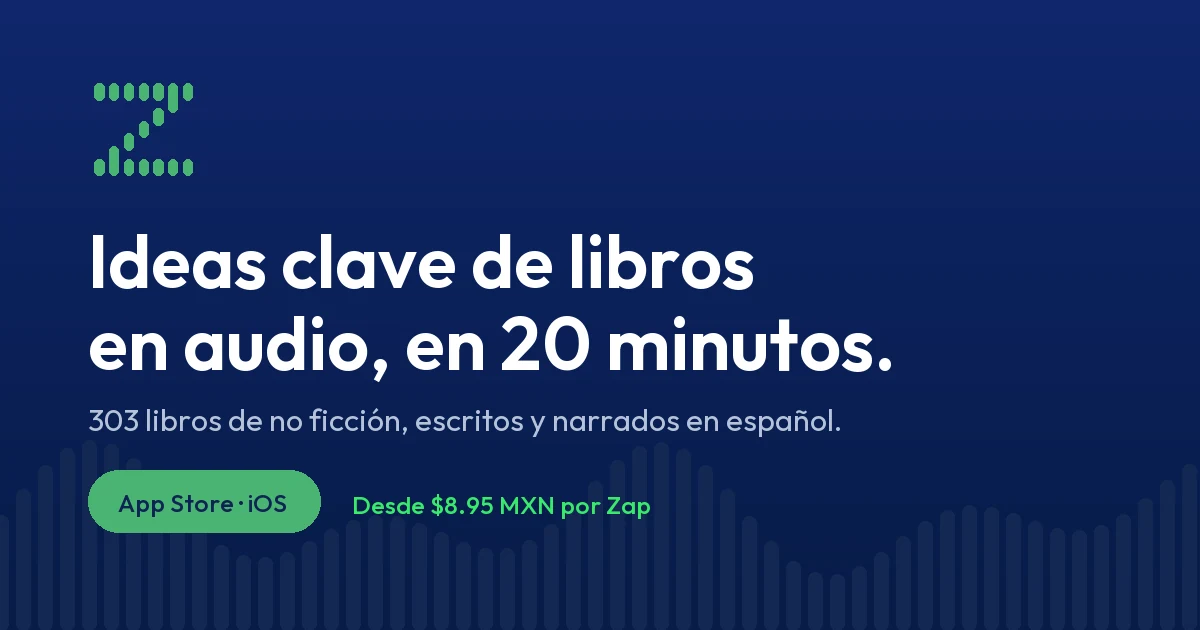
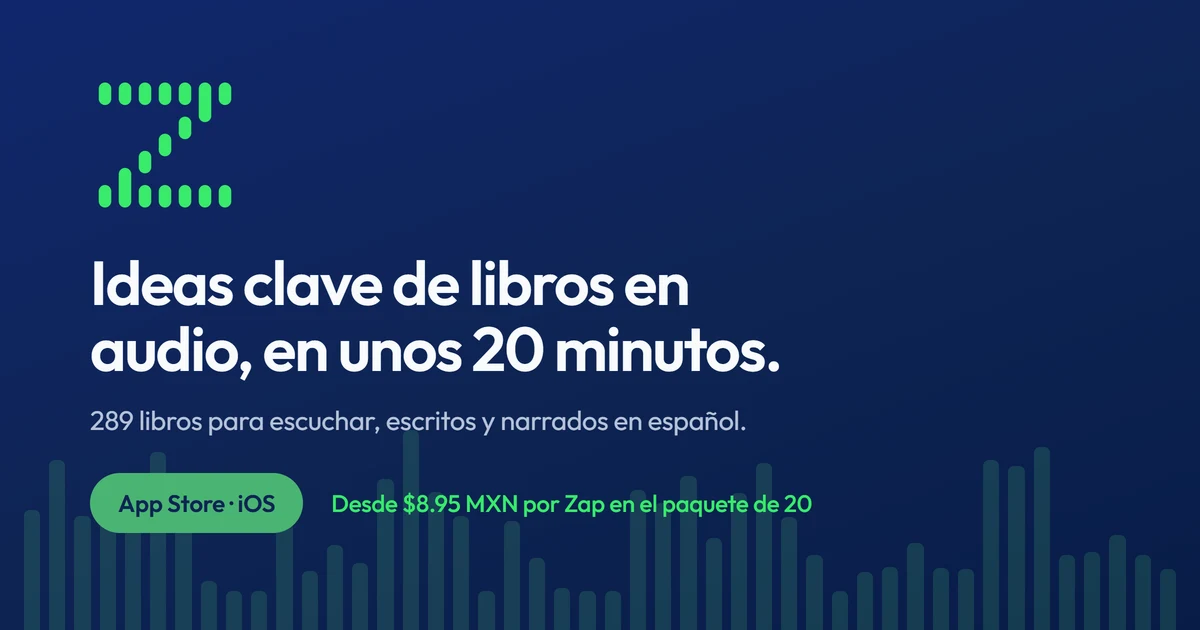
La tarjeta que se comparte seguia diciendo 303, y el hero no se leia en el telefono
Tercera auditoria del verificador, esta vez sobre el publicado y con las dos
tarjetas de calidad. Califico 14/20 de oficio y 8/10 de venta. Esto cierra lo
que no cuesta dinero.

1. assets/og.webp decia «303 libros de no ficcion» y «Desde $8.95 MXN por Zap»
   sin la coletilla del paquete. Es la PRIMERA superficie que ve un desconocido
   cuando alguien comparte el enlace, y es el og:image de las 12 paginas: la
   correccion numerica del 12-sep cambio el texto de los metadatos y no toco los
   pixeles. La tarjeta se rehizo componiendo el texto en un HTML con las fuentes
   reales de la marca y fotografiandolo -- ningun modelo de imagen escribio una
   letra. Dice 289, «en unos 20 minutos» y el precio completo. La fuente queda en
   _brief/og-fuente.html con su script, para que la proxima cifra que cambie no
   vuelva a quedarse fuera.

2. El parrafo del hero caia a 1.45:1 en telefono. Medido por pixel de glifo con
   el clip congelado: en los cuadros de t=4 y t=6.5 las barras verdes claras
   quedan justo detras de la bajada, con 327 pixeles de letra por debajo de AA.
   En vertical el texto ocupa todo el ancho, asi que el velo no se puede abrir a
   la derecha como en escritorio. Ahora la banda del texto se cierra y arriba
   sigue abierto, que es donde estan los anaqueles: peor caso 5.29:1, cero
   pixeles bajo AA en los cinco cuadros.

3. En escritorio la linea de precio corria los 1200 px de la columna -- unos 150
[…]

diff --git a/index.html b/index.html
@@ -56,7 +56,8 @@
 <body>
 
 <!-- GRANO: feTurbulence sobre todo el fondo. Mecanica `grain`. -->
-<svg class="grano" aria-hidden="true" focusable="false">
+<svg class="grano" aria-hidden="true" focusable="false"
+     width="100%" height="100%" preserveAspectRatio="none">
   <filter id="granoZap">
     <feTurbulence type="fractalNoise" baseFrequency="0.82" numOctaves="3" stitchTiles="stitch"/>
     <feColorMatrix type="saturate" values="0"/>
@@ -452,13 +453,13 @@
        esta comprando. -->
   <div class="muro" aria-hidden="true">
     <div class="muro__capa" data-depth="0.06">
-      <div class="muro__fila muro__fila--a"><img src="assets/portadas/00.webp" alt="" width="400" height="600" decoding="async"><img src="assets/portadas/01.webp" alt="" width="400" height="600" decoding="async"><img src="assets/portadas/02.webp" alt="" width="400" height="600" decoding="async"><img src="assets/portadas/03.webp" alt="" width="400" height="600" decoding="async"><img src="assets/portadas/04.webp" alt="" width="400" height="600" decoding="async"><img src="assets/portadas/05.webp" alt="" width="400" height="600" decoding="async"><img src="assets/portadas/06.webp" alt="" width="400" height="600" decoding="async"><img src="assets/portadas/07.webp" alt="" width="400" height="600" decoding="async"><img src="assets/portadas/08.webp" alt="" width="400" height="600" decoding="async"><img src="assets/portadas/00.webp" alt="" width="400" height="600" decoding="async"><img src="assets/portadas/01.webp" alt="" width="400" height="600" decoding="async"><img src="assets/portadas/02.webp" alt="" width="400" height="600" decoding="async"><img src="assets/portadas/03.webp" alt="" width="400" height="600" decoding="async"><img src="assets/portadas/04.webp" alt="" width="400" height="600" decoding="async"><img src="assets/portadas/05.webp" alt="" width="400" height="600" decoding="async"><img src="assets/portadas/06.webp" alt="" width="400" height="600" decoding="async"><img src="assets/portadas/07.webp" alt="" width="400" height="600" decoding="async"><img src="assets/portadas/08.webp" alt="" width="400" height="600" decoding="async"></div>
+      <div class="muro__fila muro__fila--a"><img src="assets/portadas/00-200.webp" srcset="assets/portadas/00-200.webp 200w, assets/portadas/00.webp 400w" sizes="(max-width:767px) 100px, 160px" alt="" width="400" height="600" loading="lazy" decoding="async"><img src="assets/portadas/01-200.webp" srcset="assets/portadas/01-200.webp 200w, assets/portadas/01.webp 400w" sizes="(max-width:767px) 100px, 160px" alt="" width="400" height="600" loading="lazy" decoding="async"><img src="assets/portadas/02-200.webp" srcset="assets/portadas/02-200.webp 200w, assets/portadas/02.webp 400w" sizes="(max-width:767px) 100px, 160px" alt="" width="400" height="600" loading="lazy" decoding="async"><img src="assets/portadas/03-200.webp" srcset="assets/portadas/03-200.webp 200w, assets/portadas/03.webp 400w" sizes="(max-width:767px) 100px, 160px" alt="" width="400" height="600" loading="lazy" decoding="async"><img src="assets/portadas/04-200.webp" srcset="assets/portadas/04-200.webp 200w, assets/portadas/04.webp 400w" sizes="(max-width:767px) 100px, 160px" alt="" width="400" height="600" loading="lazy" decoding="async"><img src="assets/portadas/05-200.webp" srcset="assets/portadas/05-200.webp 200w, assets/portadas/05.webp 400w" sizes="(max-width:767px) 100px, 160px" alt="" width="400" height="600" loading="lazy" decoding="async"><img src="assets/portadas/06-200.webp" srcset="assets/portadas/06-200.webp 200w, assets/portadas/06.webp 400w" sizes="(max-width:767px) 100px, 160px" alt="" width="400" height="600" loading="lazy" decoding="async"><img src="assets/portadas/07-200.webp" srcset="assets/portadas/07-200.webp 200w, assets/portadas/07.webp 400w" sizes="(max-width:767px) 100px, 160px" alt="" width="400" height="600" loading="lazy" decoding="async"><img src="assets/portadas/08-200.webp" srcset="assets/portadas/08-200.webp 200w, assets/portadas/08.webp 400w" sizes="(max-width:767px) 100px, 160px" alt="" width="400" height="600" loading="lazy" decoding="async"><img src="assets/portadas/00-200.webp" srcset="assets/portadas/00-200.webp 200w, assets/portadas/00.webp 400w" sizes="(max-width:767px) 100px, 160px" alt="" width="400" height="600" loading="lazy" decoding="async"><img src="assets/portadas/01-200.webp" srcset="assets/portadas/01-200.webp 200w, assets/portadas/01.webp 400w" sizes="(max-width:767px) 100px, 160px" alt="" width="400" height="600" loading="lazy" decoding="async"><img src="assets/portadas/02-200.webp" srcset="assets/portadas/02-200.webp 200w, assets/portadas/02.webp 400w" sizes="(max-width:767px) 100px, 160px" alt="" width="400" height="600" loading="lazy" decoding="async"><img src="assets/portadas/03-200.webp" srcset="assets/portadas/03-200.webp 200w, assets/portadas/03.webp 400w" sizes="(max-width:767px) 100px, 160px" alt="" width="400" height="600" loading="lazy" decoding="async"><img src="assets/portadas/04-200.webp" srcset="assets/portadas/04-200.webp 200w, assets/portadas/04.webp 400w" sizes="(max-width:767px) 100px, 160px" alt="" width="400" height="600" loading="lazy" decoding="async"><img src="assets/portadas/05-200.webp" srcset="assets/portadas/05-200.webp 200w, assets/portadas/05.webp 400w" sizes="(max-width:767px) 100px, 160px" alt="" width="400" height="600" loading="lazy" decoding="async"><img src="assets/portadas/06-200.webp" srcset="assets/portadas/06-200.webp 200w, assets/portadas/06.webp 400w" sizes="(max-width:767px) 100px, 160px" alt="" width="400" height="600" loading="lazy" decoding="async"><img src="assets/portadas/07-200.webp" srcset="assets/portadas/07-200.webp 200w, assets/portadas/07.webp 400w" sizes="(max-width:767px) 100px, 160px" alt="" width="400" height="600" loading="lazy" decoding="async"><img src="assets/portadas/08-200.webp" srcset="assets/portadas/08-200.webp 200w, assets/portadas/08.webp 400w" sizes="(max-width:767px) 100px, 160px" alt="" width="400" height="600" loading="lazy" decoding="async"></div>
     </div>
     <div class="muro__capa" data-depth="0.14">
-      <div class="muro__fila muro__fila--b"><img src="assets/portadas/09.webp" alt="" width="400" height="600" decoding="async"><img src="assets/portadas/10.webp" alt="" width="400" height="600" decoding="async"><img src="assets/portadas/11.webp" alt="" width="400" height="600" decoding="async"><img src="assets/portadas/12.webp" alt="" width="400" height="600" decoding="async"><img src="assets/portadas/13.webp" alt="" width="400" height="600" decoding="async"><img src="assets/portadas/14.webp" alt="" width="400" height="600" decoding="async"><img src="assets/portadas/15.webp" alt="" width="400" height="600" decoding="async"><img src="assets/portadas/16.webp" alt="" width="400" height="600" decoding="async"><img src="assets/portadas/17.webp" alt="" width="400" height="600" decoding="async"><img src="assets/portadas/09.webp" alt="" width="400" height="600" decoding="async"><img src="assets/portadas/10.webp" alt="" width="400" height="600" decoding="async"><img src="assets/portadas/11.webp" alt="" width="400" height="600" decoding="async"><img src="assets/portadas/12.webp" alt="" width="400" height="600" decoding="async"><img src="assets/portadas/13.webp" alt="" width="400" height="600" decoding="async"><img src="assets/portadas/14.webp" alt="" width="400" height="600" decoding="async"><img src="assets/portadas/15.webp" alt="" width="400" height="600" decoding="async"><img src="assets/portadas/16.webp" alt="" width="400" height="600" decoding="async"><img src="assets/portadas/17.webp" alt="" width="400" height="600" decoding="async"></div>
+      <div class="muro__fila muro__fila--b"><img src="assets/portadas/09-200.webp" srcset="assets/portadas/09-200.webp 200w, assets/portadas/09.webp 400w" sizes="(max-width:767px) 100px, 160px" alt="" width="400" height="600" loading="lazy" decoding="async"><img src="assets/portadas/10-200.webp" srcset="assets/portadas/10-200.webp 200w, assets/portadas/10.webp 400w" sizes="(max-width:767px) 100px, 160px" alt="" width="400" height="600" loading="lazy" decoding="async"><img src="assets/portadas/11-200.webp" srcset="assets/portadas/11-200.webp 200w, assets/portadas/11.webp 400w" sizes="(max-width:767px) 100px, 160px" alt="" width="400" height="600" loading="lazy" decoding="async"><img src="assets/portadas/12-200.webp" srcset="assets/portadas/12-200.webp 200w, assets/portadas/12.webp 400w" sizes="(max-width:767px) 100px, 160px" alt="" width="400" height="600" loading="lazy" decoding="async"><img src="assets/portadas/13-200.webp" srcset="assets/portadas/13-200.webp 200w, assets/portadas/13.webp 400w" sizes="(max-width:767px) 100px, 160px" alt="" width="400" height="600" loading="lazy" decoding="async"><img src="assets/portadas/14-200.webp" srcset="assets/portadas/14-200.webp 200w, assets/portadas/14.webp 400w" sizes="(max-width:767px) 100px, 160px" alt="" width="400" height="600" loading="lazy" decoding="async"><img src="assets/portadas/15-200.webp" srcset="assets/portadas/15-200.webp 200w, assets/portadas/15.webp 400w" sizes="(max-width:767px) 100px, 160px" alt="" width="400" height="600" loading="lazy" decoding="async"><img src="assets/portadas/16-200.webp" srcset="assets/portadas/16-200.webp 200w, assets/portadas/16.webp 400w" sizes="(max-width:767px) 100px, 160px" alt="" width="400" height="600" loading="lazy" decoding="async"><img src="assets/portadas/17-200.webp" srcset="assets/portadas/17-200.webp 200w, assets/portadas/17.webp 400w" sizes="(max-width:767px) 100px, 160px" alt="" width="400" height="600" loading="lazy" decoding="async"><img src="assets/portadas/09-200.webp" srcset="assets/portadas/09-200.webp 200w, assets/portadas/09.webp 400w" sizes="(max-width:767px) 100px, 160px" alt="" width="400" height="600" loading="lazy" decoding="async"><img src="assets/portadas/10-200.webp" srcset="assets/portadas/10-200.webp 200w, assets/portadas/10.webp 400w" sizes="(max-width:767px) 100px, 160px" alt="" width="400" height="600" loading="lazy" decoding="async"><img src="assets/portadas/11-200.webp" srcset="assets/portadas/11-200.webp 200w, assets/portadas/11.webp 400w" sizes="(max-width:767px) 100px, 160px" alt="" width="400" height="600" loading="lazy" decoding="async"><img src="assets/portadas/12-200.webp" srcset="assets/portadas/12-200.webp 200w, assets/portadas/12.webp 400w" sizes="(max-width:767px) 100px, 160px" alt="" width="400" height="600" loading="lazy" decoding="async"><img src="assets/portadas/13-200.webp" srcset="assets/portadas/13-200.webp 200w, assets/portadas/13.webp 400w" sizes="(max-width:767px) 100px, 160px" alt="" width="400" height="600" loading="lazy" decoding="async"><img src="assets/portadas/14-200.webp" srcset="assets/portadas/14-200.webp 200w, assets/portadas/14.webp 400w" sizes="(max-width:767px) 100px, 160px" alt="" width="400" height="600" loading="lazy" decoding="async"><img src="assets/portadas/15-200.webp" srcset="assets/portadas/15-200.webp 200w, assets/portadas/15.webp 400w" sizes="(max-width:767px) 100px, 160px" alt="" width="400" height="600" loading="lazy" decoding="async"><img src="assets/portadas/16-200.webp" srcset="assets/portadas/16-200.webp 200w, assets/portadas/16.webp 400w" sizes="(max-width:767px) 100px, 160px" alt="" width="400" height="600" loading="lazy" decoding="async"><img src="assets/portadas/17-200.webp" srcset="assets/portadas/17-200.webp 200w, assets/portadas/17.webp 400w" sizes="(max-width:767px) 100px, 160px" alt="" width="400" height="600" loading="lazy" decoding="async"></div>
     </div>
     <div class="muro__capa" data-depth="0.24">
-      <div class="muro__fila muro__fila--c"><img src="assets/portadas/18.webp" alt="" width="400" height="600" decoding="async"><img src="assets/portadas/19.webp" alt="" width="400" height="600" decoding="async"><img src="assets/portadas/20.webp" alt="" width="400" height="600" decoding="async"><img src="assets/portadas/21.webp" alt="" width="400" height="600" decoding="async"><img src="assets/portadas/22.webp" alt="" width="400" height="600" decoding="async"><img src="assets/portadas/23.webp" alt="" width="400" height="600" decoding="async"><img src="assets/portadas/24.webp" alt="" width="400" height="600" decoding="async"><img src="assets/portadas/25.webp" alt="" width="400" height="600" decoding="async"><img src="assets/portadas/26.webp" alt="" width="400" height="600" decoding="async"><img src="assets/portadas/27.webp" alt="" width="400" height="600" decoding="async"><img src="assets/portadas/18.webp" alt="" width="400" height="600" decoding="async"><img src="assets/portadas/19.webp" alt="" width="400" height="600" decoding="async"><img src="assets/portadas/20.webp" alt="" width="400" height="600" decoding="async"><img src="assets/portadas/21.webp" alt="" width="400" height="600" decoding="async"><img src="assets/portadas/22.webp" alt="" width="400" height="600" decoding="async"><img src="assets/portadas/23.webp" alt="" width="400" height="600" decoding="async"><img src="assets/portadas/24.webp" alt="" width="400" height="600" decoding="async"><img src="assets/portadas/25.webp" alt="" width="400" height="600" decoding="async"><img src="assets/portadas/26.webp" alt="" width="400" height="600" decoding="async"><img src="assets/portadas/27.webp" alt="" width="400" height="600" decoding="async"></div>
+      <div class="muro__fila muro__fila--c"><img src="assets/portadas/18-200.webp" srcset="assets/portadas/18-200.webp 200w, assets/portadas/18.webp 400w" sizes="(max-width:767px) 100px, 160px" alt="" width="400" height="600" loading="lazy" decoding="async"><img src="assets/portadas/19-200.webp" srcset="assets/portadas/19-200.webp 200w, assets/portadas/19.webp 400w" sizes="(max-width:767px) 100px, 160px" alt="" width="400" height="600" loading="lazy" decoding="async"><img src="assets/portadas/20-200.webp" srcset="assets/portadas/20-200.webp 200w, assets/portadas/20.webp 400w" sizes="(max-width:767px) 100px, 160px" alt="" width="400" height="600" loading="lazy" decoding="async"><img src="assets/portadas/21-200.webp" srcset="assets/portadas/21-200.webp 200w, assets/portadas/21.webp 400w" sizes="(max-width:767px) 100px, 160px" alt="" width="400" height="600" loading="lazy" decoding="async"><img src="assets/portadas/22-200.webp" srcset="assets/portadas/22-200.webp 200w, assets/portadas/22.webp 400w" sizes="(max-width:767px) 100px, 160px" alt="" width="400" height="600" loading="lazy" decoding="async"><img src="assets/portadas/23-200.webp" srcset="assets/portadas/23-200.webp 200w, assets/portadas/23.webp 400w" sizes="(max-width:767px) 100px, 160px" alt="" width="400" height="600" loading="lazy" decoding="async"><img src="assets/portadas/24-200.webp" srcset="assets/portadas/24-200.webp 200w, assets/portadas/24.webp 400w" sizes="(max-width:767px) 100px, 160px" alt="" width="400" height="600" loading="lazy" decoding="async"><img src="assets/portadas/25-200.webp" srcset="assets/portadas/25-200.webp 200w, assets/portadas/25.webp 400w" sizes="(max-width:767px) 100px, 160px" alt="" width="400" height="600" loading="lazy" decoding="async"><img src="assets/portadas/26-200.webp" srcset="assets/portadas/26-200.webp 200w, assets/portadas/26.webp 400w" sizes="(max-width:767px) 100px, 160px" alt="" width="400" height="600" loading="lazy" decoding="async"><img src="assets/portadas/27-200.webp" srcset="assets/portadas/27-200.webp 200w, assets/portadas/27.webp 400w" sizes="(max-width:767px) 100px, 160px" alt="" width="400" height="600" loading="lazy" decoding="async"><img src="assets/portadas/18-200.webp" srcset="assets/portadas/18-200.webp 200w, assets/portadas/18.webp 400w" sizes="(max-width:767px) 100px, 160px" alt="" width="400" height="600" loading="lazy" decoding="async"><img src="assets/portadas/19-200.webp" srcset="assets/portadas/19-200.webp 200w, assets/portadas/19.webp 400w" sizes="(max-width:767px) 100px, 160px" alt="" width="400" height="600" loading="lazy" decoding="async"><img src="assets/portadas/20-200.webp" srcset="assets/portadas/20-200.webp 200w, assets/portadas/20.webp 400w" sizes="(max-width:767px) 100px, 160px" alt="" width="400" height="600" loading="lazy" decoding="async"><img src="assets/portadas/21-200.webp" srcset="assets/portadas/21-200.webp 200w, assets/portadas/21.webp 400w" sizes="(max-width:767px) 100px, 160px" alt="" width="400" height="600" loading="lazy" decoding="async"><img src="assets/portadas/22-200.webp" srcset="assets/portadas/22-200.webp 200w, assets/portadas/22.webp 400w" sizes="(max-width:767px) 100px, 160px" alt="" width="400" height="600" loading="lazy" decoding="async"><img src="assets/portadas/23-200.webp" srcset="assets/portadas/23-200.webp 200w, assets/portadas/23.webp 400w" sizes="(max-width:767px) 100px, 160px" alt="" width="400" height="600" loading="lazy" decoding="async"><img src="assets/portadas/24-200.webp" srcset="assets/portadas/24-200.webp 200w, assets/portadas/24.webp 400w" sizes="(max-width:767px) 100px, 160px" alt="" width="400" height="600" loading="lazy" decoding="async"><img src="assets/portadas/25-200.webp" srcset="assets/portadas/25-200.webp 200w, assets/portadas/25.webp 400w" sizes="(max-width:767px) 100px, 160px" alt="" width="400" height="600" loading="lazy" decoding="async"><img src="assets/portadas/26-200.webp" srcset="assets/portadas/26-200.webp 200w, assets/portadas/26.webp 400w" sizes="(max-width:767px) 100px, 160px" alt="" width="400" height="600" loading="lazy" decoding="async"><img src="assets/portadas/27-200.webp" srcset="assets/portadas/27-200.webp 200w, assets/portadas/27.webp 400w" sizes="(max-width:767px) 100px, 160px" alt="" width="400" height="600" loading="lazy" decoding="async"></div>
     </div>
   </div>
   <div class="muro__velo" aria-hidden="true"></div>

diff --git a/assets/css/site.css b/assets/css/site.css
@@ -133,6 +133,14 @@ button{ font:inherit; color:inherit; background:none; border:0; cursor:pointer; 
 .serif{ font-family:var(--display); font-weight:400; }
 .sr-only{ position:absolute; width:1px; height:1px; padding:0; margin:-1px;
           overflow:hidden; clip-path:inset(50%); white-space:nowrap; }
+/* El salto al contenido existia pero seguia midiendo 1x1 al enfocarlo: quien navega
+   con teclado recibia el foco en un enlace invisible. Al enfocarse se hace boton. */
+.sr-only:focus{
+  position:fixed; top:14px; left:14px; z-index:100;
+  width:auto; height:auto; margin:0; padding:12px 20px; min-height:44px;
+  display:inline-flex; align-items:center; overflow:visible; clip-path:none;
+  background:var(--verde); color:var(--noche); border-radius:999px; font-weight:600;
+}
 
 /* ---------- 3. GRANO (mecanica: grain) ----------------------------------- */
 /* El SVG feTurbulence vive inline en el HTML; aqui solo se tiende encima. */
@@ -275,6 +283,20 @@ button{ font:inherit; color:inherit; background:none; border:0; cursor:pointer; 
                     rgba(7,28,71,.46) 84%, rgba(7,28,71,.92) 100%);
 }
 
+/* En vertical el texto ocupa TODO el ancho, asi que el velo no se puede abrir a la
+   derecha como en escritorio: ahi es justo donde el clip mete barras verdes claras
+   detras de la bajada. Medido por pixel de glifo sobre el video congelado: 1.45:1 en
+   el cuadro de t=6.5 s, con 327 pixeles de letra por debajo de AA. La banda del texto
+   se cierra; arriba el velo sigue abierto, que es donde estan los anaqueles. */
+@media (max-width:767px){
+  .hero__velo{
+    background:
+      linear-gradient(180deg, rgba(16,39,109,.62) 0 6%, rgba(14,36,83,.26) 15%,
+                      rgba(7,28,71,.81) 27%, rgba(7,28,71,.83) 84%,
+                      rgba(7,28,71,.94) 100%);
+  }
+}
+
 /* ---------- 5b. EL MURO DE PORTADAS (parallax-layers) -------------------- */
 /* Las 28 ilustraciones REALES del catalogo, en tres profundidades que derivan a
    distinta velocidad. Empezo en el hero, donde tapaba el clip de la libreria; su
@@ -350,7 +372,12 @@ button{ font:inherit; color:inherit; background:none; border:0; cursor:pointer; 
 .hero__sub{ font-family:var(--display); font-size:clamp(1.05rem,2vw,1.3rem);
             color:var(--noche-texto2); max-width:52ch; margin-bottom:30px; }
 .hero__acciones{ display:flex; flex-wrap:wrap; gap:14px; align-items:center; }
-.hero__precio{ margin-top:22px; }
+/* La linea de precio corria los 1200 px de la columna: a 12.48 px son ~150
+   caracteres de un tiron, y el final caia en la zona donde el velo se abre para
+   dejar ver el clip. Medido por pixel de glifo: 3.31:1 en el cuadro de t=4 s. Con
+   la medida acotada rompe en dos lineas y se queda dentro de la banda protegida,
+   que ademas es como se lee una linea de 12 px. */
+.hero__precio{ margin-top:22px; max-width:58ch; }
 
 /* ---------- 6b. MUESTRA DE AUDIO (AnalyserNode) --------------------------
    El CTA secundario del hero suena. En un producto de audio la muestra ES la
@@ -1053,3 +1080,17 @@ blockquote.linterna__texto{ margin:0; }
      se mueve. Lo resuelve site.js; aqui solo baja el peso visual. */
   .pulso{ opacity:.55; }
 }
+
+/* ---------- 25. OBJETIVOS TACTILES --------------------------------------
+   WCAG 2.2 AA pide 24x24 y el PRD de este sitio pide 44x44 con 8 px de aire.
+   Los enlaces sueltos (marca de la nav, correo de cierre, los tres del pie)
+   median entre 16 y 26 px de alto: se les da caja, no tamano de letra. Los
+   enlaces DENTRO de una frase quedan fuera a proposito -- la norma los
+   exceptua y agrandarlos rompe el interlineado del parrafo. */
+.nav__marca{ min-height:44px; }
+.nav__enlaces a{ display:inline-flex; align-items:center; min-height:44px; }
+.pie a,
+.seccion--ambiente .mono a{
+  display:inline-flex; align-items:center; min-height:44px;
+}
+.pie__fila{ gap:8px 30px; }

diff --git a/assets/js/site.js b/assets/js/site.js
@@ -674,6 +674,10 @@ window.addEventListener('pagehide', () => loops.forEach(r => { cancelAnimationFr
    ========================================================================= */
 {
   $$('video[data-pingpong]').forEach(v => {
+    /* Con movimiento reducido el CSS esconde este clip. Sin este guardia el JS
+       seguia reproduciendolo y encadenando rAF para el ping-pong: gasto puro
+       para quien pidio menos movimiento. */
+    if (!suave){ v.pause(); v.removeAttribute('autoplay'); return; }
     v.playbackRate = 1;
     let atras = false;
     v.addEventListener('ended', () => { v.currentTime = 0; v.play().catch(() => {}); });
@@ -844,11 +848,18 @@ if (!finoPuntero) document.body.addEventListener('touchstart', () => {}, { passi
     }
 
     const pintar = () => {
+      /* Con la pestana escondida el audio puede seguir sonando, pero el espectro
+         no lo ve nadie: el bucle se suelta y se vuelve a armar al regresar. */
+      if (document.hidden){ raf = 0; return; }
       if (hayGrafo) analizador.getByteFrequencyData(datos);
       dibujar();
       raf = requestAnimationFrame(pintar);
     };
     const detener = () => { cancelAnimationFrame(raf); raf = 0; dibujar(); };
+    document.addEventListener('visibilitychange', () => {
+      if (document.hidden){ cancelAnimationFrame(raf); raf = 0; }
+      else if (!au.paused && !raf) raf = requestAnimationFrame(pintar);
+    });
 
     au.addEventListener('play',  () => { if (!raf) raf = requestAnimationFrame(pintar); });
     au.addEventListener('pause', detener);

diff --git a/404.html b/404.html
@@ -27,7 +27,8 @@
 <link rel="stylesheet" href="/zapienz-site/assets/css/site.css">
 </head>
 <body>
-<svg class="grano" aria-hidden="true" focusable="false">
+<svg class="grano" aria-hidden="true" focusable="false"
+     width="100%" height="100%" preserveAspectRatio="none">
   <filter id="granoZap">
     <feTurbulence type="fractalNoise" baseFrequency="0.82" numOctaves="3" stitchTiles="stitch"/>
     <feColorMatrix type="saturate" values="0"/>

diff --git a/c/biografias/index.html b/c/biografias/index.html
@@ -30,7 +30,8 @@
 </script>
 </head>
 <body>
-<svg class="grano" aria-hidden="true" focusable="false">
+<svg class="grano" aria-hidden="true" focusable="false"
+     width="100%" height="100%" preserveAspectRatio="none">
   <filter id="granoZap">
     <feTurbulence type="fractalNoise" baseFrequency="0.82" numOctaves="3" stitchTiles="stitch"/>
     <feColorMatrix type="saturate" values="0"/>

diff --git a/c/desarrollo-personal/index.html b/c/desarrollo-personal/index.html
@@ -30,7 +30,8 @@
 </script>
 </head>
 <body>
-<svg class="grano" aria-hidden="true" focusable="false">
+<svg class="grano" aria-hidden="true" focusable="false"
+     width="100%" height="100%" preserveAspectRatio="none">
   <filter id="granoZap">
     <feTurbulence type="fractalNoise" baseFrequency="0.82" numOctaves="3" stitchTiles="stitch"/>
     <feColorMatrix type="saturate" values="0"/>

diff --git a/c/filosofia/index.html b/c/filosofia/index.html
@@ -30,7 +30,8 @@
 </script>
 </head>
 <body>
-<svg class="grano" aria-hidden="true" focusable="false">
+<svg class="grano" aria-hidden="true" focusable="false"
+     width="100%" height="100%" preserveAspectRatio="none">
   <filter id="granoZap">
     <feTurbulence type="fractalNoise" baseFrequency="0.82" numOctaves="3" stitchTiles="stitch"/>
     <feColorMatrix type="saturate" values="0"/>

diff --git a/c/finanzas/index.html b/c/finanzas/index.html
@@ -30,7 +30,8 @@
 </script>
 </head>
 <body>
-<svg class="grano" aria-hidden="true" focusable="false">
+<svg class="grano" aria-hidden="true" focusable="false"
+     width="100%" height="100%" preserveAspectRatio="none">
   <filter id="granoZap">
     <feTurbulence type="fractalNoise" baseFrequency="0.82" numOctaves="3" stitchTiles="stitch"/>
     <feColorMatrix type="saturate" values="0"/>

diff --git a/c/marketing-y-ventas/index.html b/c/marketing-y-ventas/index.html
@@ -30,7 +30,8 @@
 </script>
 </head>
 <body>
-<svg class="grano" aria-hidden="true" focusable="false">
+<svg class="grano" aria-hidden="true" focusable="false"
+     width="100%" height="100%" preserveAspectRatio="none">
   <filter id="granoZap">
     <feTurbulence type="fractalNoise" baseFrequency="0.82" numOctaves="3" stitchTiles="stitch"/>
     <feColorMatrix type="saturate" values="0"/>

diff --git a/c/negocios/index.html b/c/negocios/index.html
@@ -30,7 +30,8 @@
 </script>
 </head>
 <body>
-<svg class="grano" aria-hidden="true" focusable="false">
+<svg class="grano" aria-hidden="true" focusable="false"
+     width="100%" height="100%" preserveAspectRatio="none">
   <filter id="granoZap">
     <feTurbulence type="fractalNoise" baseFrequency="0.82" numOctaves="3" stitchTiles="stitch"/>
     <feColorMatrix type="saturate" values="0"/>

diff --git a/c/productividad/index.html b/c/productividad/index.html
@@ -30,7 +30,8 @@
 </script>
 </head>
 <body>
-<svg class="grano" aria-hidden="true" focusable="false">
+<svg class="grano" aria-hidden="true" focusable="false"
+     width="100%" height="100%" preserveAspectRatio="none">
   <filter id="granoZap">
     <feTurbulence type="fractalNoise" baseFrequency="0.82" numOctaves="3" stitchTiles="stitch"/>
     <feColorMatrix type="saturate" values="0"/>

diff --git a/c/psicologia/index.html b/c/psicologia/index.html
@@ -30,7 +30,8 @@
 </script>
 </head>
 <body>
-<svg class="grano" aria-hidden="true" focusable="false">
+<svg class="grano" aria-hidden="true" focusable="false"
+     width="100%" height="100%" preserveAspectRatio="none">
   <filter id="granoZap">
     <feTurbulence type="fractalNoise" baseFrequency="0.82" numOctaves="3" stitchTiles="stitch"/>
     <feColorMatrix type="saturate" values="0"/>
